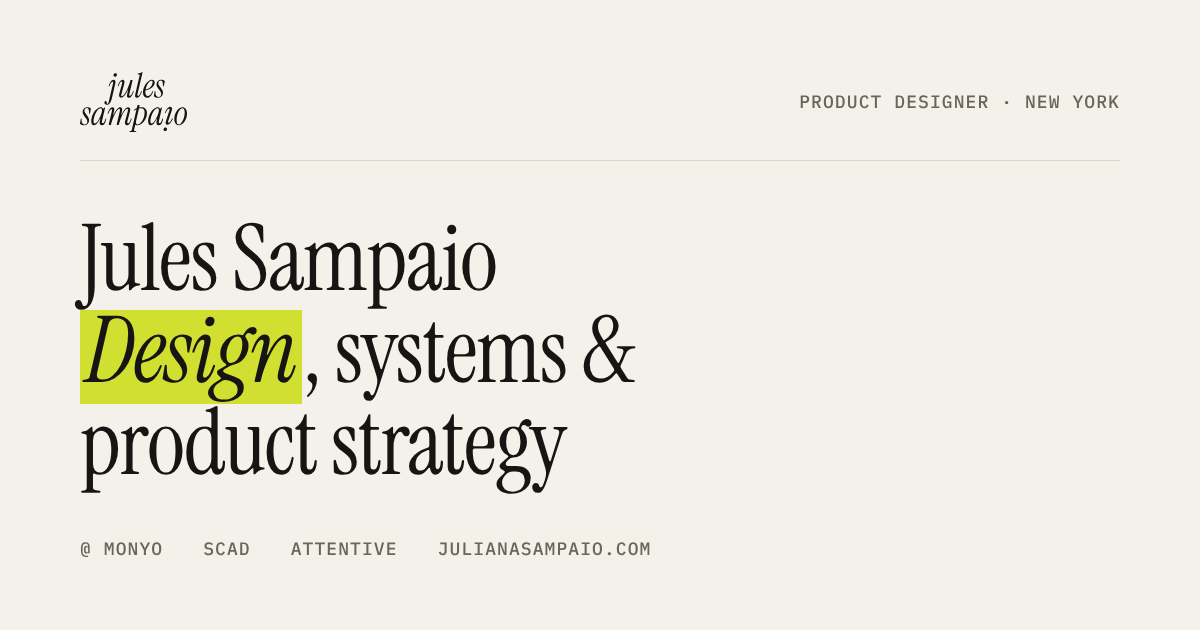
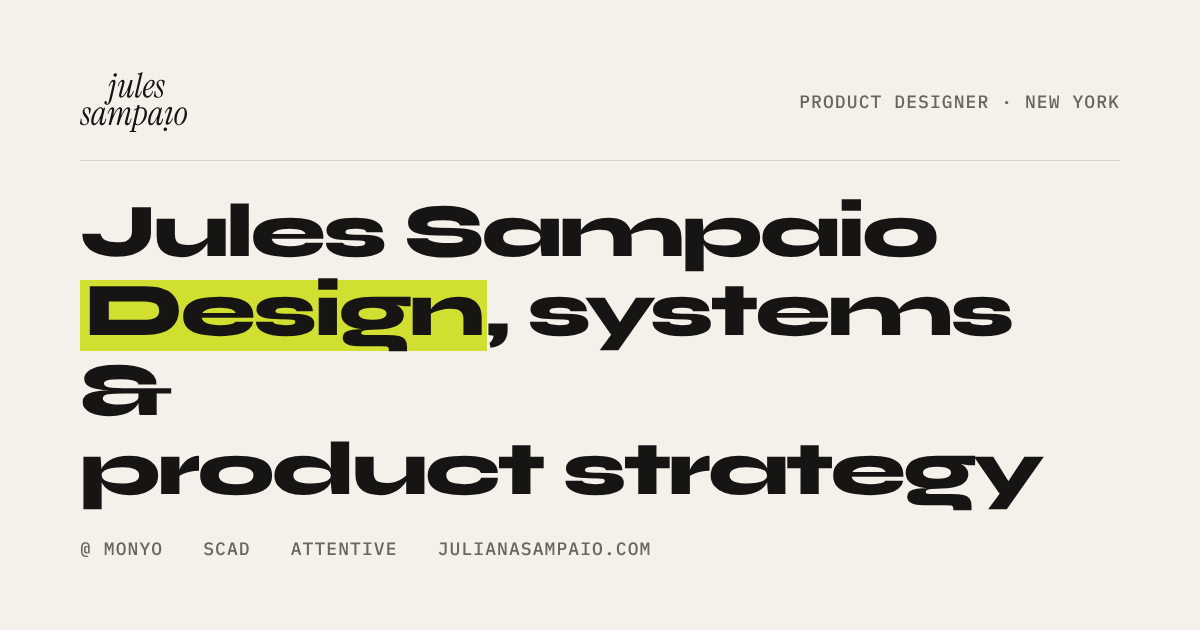
Use Syne ExtraBold for headings, restore Instrument Sans body
Syne replaces Instrument Serif for display type, sized down to suit its
width. Project titles stay on one line in the stacked list, the New badge
sits beside the number, and headings never push the page sideways on
phones. Social preview image updated to match.

Claude-Session: https://claude.ai/code/session_01Fz48ZS3uEjodpQCWoz5G4s

Changed region(s): [[0.0617, 0.3016, 0.8633, 0.8143]]

diff --git a/styles.css b/styles.css
@@ -1,5 +1,5 @@
 /* Jules Sampaio — editorial system.
-   Instrument Serif for display, Syne ExtraBold for reading, IBM Plex Mono for labels.
+   Syne ExtraBold for display, Instrument Sans for reading, IBM Plex Mono for labels.
    Dark is the default theme; the header switch sets data-theme on <html>.
    Warm paper, near-black ink, one lime accent (#d1e030).
    --accent is a fill color; --accent-ink is the readable text version of it. */
@@ -16,8 +16,8 @@
   --card: #ffffff;
   --todo: #fff3c4;
   --todo-line: #d9b528;
-  --display: "Instrument Serif", "Times New Roman", Georgia, serif;
-  --body: "Syne", "Helvetica Neue", Arial, sans-serif;
+  --display: "Syne", "Helvetica Neue", Arial, sans-serif;
+  --body: "Instrument Sans", "Helvetica Neue", Arial, sans-serif;
   --mono: "IBM Plex Mono", ui-monospace, Menlo, monospace;
   --gutter: clamp(16px, 4vw, 48px);
   --max: 1320px;
@@ -50,7 +50,7 @@
 html { -webkit-text-size-adjust: 100%; }
 body {
   margin: 0; background: var(--paper); color: var(--ink);
-  font: 800 16px/1.65 var(--body);
+  font: 400 17px/1.6 var(--body);
   -webkit-font-smoothing: antialiased;
   font-synthesis-weight: none;
 }
@@ -90,7 +90,7 @@ a { color: inherit; }
 
 /* home */
 .intro { padding: clamp(72px, 13vw, 168px) 0 clamp(64px, 11vw, 144px); text-align: center; }
-.intro h1 { font: 400 clamp(42px, 5.6vw, 82px)/.98 var(--display); letter-spacing: -.015em; margin: 0; }
+.intro h1 { font: 800 clamp(25px, 4.4vw, 64px)/1.04 var(--display); letter-spacing: -.035em; margin: 0; }
 .intro h1 span { display: block; }
 .intro h1 em { font-style: italic; }
 .hl { color: var(--hl-ink); background: linear-gradient(transparent 16%, var(--hl-bg) 16% 94%, transparent 94%); padding: 0 .08em; -webkit-box-decoration-break: clone; box-decoration-break: clone; }
@@ -109,11 +109,12 @@ a { color: inherit; }
 .index li:first-child { border-top: 0; }
 .index li[hidden] { display: none; }
 .index li.no-stick { position: relative; top: auto !important; }
-.card { display: grid; grid-template-columns: 72px minmax(0, 1fr) minmax(0, 1.12fr); gap: 0 clamp(20px, 3vw, 48px); padding: 14px 0 clamp(28px, 4vw, 48px); text-decoration: none; }
-.card .num { font: 500 11.5px/1 var(--mono); letter-spacing: .06em; padding-top: 14px; color: var(--muted); }
+.card { display: grid; grid-template-columns: 72px minmax(0, 1fr) minmax(0, 1fr); gap: 0 clamp(20px, 3vw, 48px); padding: 14px 0 clamp(28px, 4vw, 48px); text-decoration: none; }
+.card .num { font: 500 11.5px/1 var(--mono); letter-spacing: .06em; padding-top: 12px; color: var(--muted); display: flex; align-items: center; align-self: start; gap: 8px; }
 .card .num::before { content: counter(work, decimal-leading-zero); }
+.card .num .new { order: 1; }
 .card .text { display: flex; flex-direction: column; min-width: 0; }
-.card .name { font: 400 clamp(32px, 3.3vw, 46px)/1.05 var(--display); letter-spacing: -.01em; margin: 0; }
+.card .name { font: 800 clamp(20px, 1.8vw, 26px)/1.15 var(--display); letter-spacing: -.035em; margin: 0; padding-top: 4px; }
 .card .name span { background-image: linear-gradient(var(--accent-ink), var(--accent-ink)); background-size: 0% 3px; background-position: 0 100%; background-repeat: no-repeat; padding-bottom: 4px; transition: background-size .45s cubic-bezier(.2,.7,.1,1); }
 .card:hover .name span, .card:focus-visible .name span { background-size: 100% 3px; }
 .card .desc { margin: 18px 0 0; font-size: 16.5px; line-height: 1.5; max-width: 44ch; }
@@ -123,7 +124,7 @@ a { color: inherit; }
 .card .thumb > .shot { height: 100%; border-radius: inherit; }
 .card .thumb img { transition: transform .7s cubic-bezier(.2,.7,.1,1); }
 .card:hover .thumb img { transform: scale(1.03); }
-.card .new { font: 500 10px/1 var(--mono); letter-spacing: .06em; text-transform: uppercase; color: #161513; background: var(--accent); border-radius: 999px; padding: 5px 8px; margin-left: 12px; vertical-align: middle; position: relative; top: -6px; }
+.card .new { font: 500 10px/1 var(--mono); letter-spacing: .06em; text-transform: uppercase; color: #161513; background: var(--accent); border-radius: 999px; padding: 5px 8px; }
 
 /* image frames with graceful placeholder */
 .shot { position: relative; background: var(--wash); border-radius: 14px; overflow: hidden; }
@@ -139,7 +140,7 @@ a { color: inherit; }
 .back:hover { color: var(--ink); }
 .back svg { transition: transform .2s; }
 .back:hover svg { transform: translateX(-3px); }
-.cs-top h1 { font: 400 clamp(48px, 7.5vw, 112px)/.98 var(--display); letter-spacing: -.02em; margin: 28px 0 0; text-wrap: balance; width: fit-content; }
+.cs-top h1 { font: 800 clamp(32px, 5.4vw, 80px)/1.02 var(--display); letter-spacing: -.04em; margin: 28px 0 0; text-wrap: balance; width: fit-content; }
 .cs-top .lede { font-size: clamp(19px, 1.8vw, 23px); line-height: 1.45; max-width: 46ch; margin: 24px 0 0; text-wrap: pretty; }
 .meta { display: grid; grid-template-columns: repeat(4, minmax(0, 1fr)); gap: 24px; margin: clamp(32px, 5vw, 56px) 0 0; padding: 20px 0 0; border-top: 1px solid var(--line); }
 .meta div { min-width: 0; }
@@ -156,7 +157,7 @@ a { color: inherit; }
 .prose { max-width: 720px; }
 .prose section { scroll-margin-top: 96px; }
 .prose section + section { margin-top: clamp(56px, 7vw, 88px); }
-.prose h2 { font: 400 clamp(32px, 3.4vw, 44px)/1.05 var(--display); letter-spacing: -.01em; margin: 0 0 18px; text-wrap: balance; }
+.prose h2 { font: 800 clamp(24px, 2.4vw, 32px)/1.12 var(--display); letter-spacing: -.03em; margin: 0 0 18px; text-wrap: balance; }
 .prose h3 { font: 600 18px/1.3 var(--body); margin: 32px 0 6px; }
 .prose p { margin: 0 0 16px; max-width: 65ch; }
 .prose ul { margin: 0 0 16px; padding-left: 20px; max-width: 65ch; }
@@ -177,7 +178,7 @@ a { color: inherit; }
 .values { list-style: none; padding: 0 !important; display: grid; grid-template-columns: repeat(auto-fill, minmax(200px, 1fr)); gap: 16px; }
 .values li { margin: 0; }
 .values .shot { aspect-ratio: 1; margin-bottom: 10px; }
-.values strong { font: 400 24px/1.15 var(--display); }
+.values strong { font: 800 19px/1.2 var(--display); letter-spacing: -.02em; }
 .values span { display: block; color: var(--muted); font-size: 15px; }
 
 .todo { background: var(--todo); border: 1px dashed var(--todo-line); border-radius: 8px; padding: 10px 14px; font-size: 15px; }
@@ -186,12 +187,12 @@ a { color: inherit; }
 
 .next { display: block; text-decoration: none; border-top: 1px solid var(--ink); padding: 28px 0 clamp(56px, 8vw, 96px); }
 .next span { font: 500 11.5px/1.5 var(--mono); letter-spacing: .06em; text-transform: uppercase; color: var(--muted); }
-.next strong { display: flex; align-items: center; gap: 18px; font: 400 clamp(40px, 6.5vw, 88px)/1 var(--display); letter-spacing: -.015em; margin-top: 10px; transition: gap .3s cubic-bezier(.2,.7,.1,1), color .2s; }
+.next strong { display: flex; align-items: center; gap: 18px; font: 800 clamp(30px, 4.6vw, 62px)/1.05 var(--display); letter-spacing: -.04em; margin-top: 10px; transition: gap .3s cubic-bezier(.2,.7,.1,1), color .2s; }
 .next:hover strong { gap: 30px; color: var(--accent-ink); }
 
 /* about */
 .about { display: grid; grid-template-columns: minmax(0, 1.25fr) minmax(0, 1fr); gap: clamp(32px, 6vw, 96px); padding: clamp(48px, 8vw, 104px) 0 clamp(64px, 10vw, 120px); align-items: start; }
-.about h1 { font: 400 clamp(40px, 4.8vw, 66px)/1.02 var(--display); letter-spacing: -.015em; margin: 0 0 28px; text-wrap: balance; }
+.about h1 { font: 800 clamp(30px, 3.4vw, 46px)/1.1 var(--display); letter-spacing: -.035em; margin: 0 0 28px; text-wrap: balance; }
 .about h1 em { color: var(--hl-ink); background: linear-gradient(transparent 16%, var(--hl-bg) 16% 94%, transparent 94%); padding: 0 .08em; }
 .about p { max-width: 58ch; margin: 0 0 16px; font-size: 18px; }
 .about .portrait { aspect-ratio: 4/5; border-radius: 8px; }
@@ -208,7 +209,7 @@ a { color: inherit; }
 
 /* footer */
 .site-foot { border-top: 1px solid var(--line); padding: clamp(48px, 7vw, 88px) 0 40px; }
-.site-foot .say { font: 400 clamp(44px, 6vw, 84px)/1 var(--display); letter-spacing: -.015em; margin: 0 0 clamp(36px, 5vw, 56px); }
+.site-foot .say { font: 800 clamp(32px, 4.4vw, 60px)/1.05 var(--display); letter-spacing: -.04em; margin: 0 0 clamp(36px, 5vw, 56px); }
 .site-foot .say em { color: var(--hl-ink); background: linear-gradient(transparent 16%, var(--hl-bg) 16% 94%, transparent 94%); padding: 0 .08em; }
 .foot-grid { display: grid; grid-template-columns: repeat(3, minmax(0, 1fr)) auto; gap: 24px; padding-top: 20px; border-top: 1px solid var(--line); align-items: start; }
 .foot-grid .label { color: var(--muted); display: block; margin-bottom: 6px; }
@@ -219,7 +220,7 @@ a { color: inherit; }
 
 /* responsive */
 @media (max-width: 960px) {
-  .card { grid-template-columns: 52px minmax(0, 1fr) minmax(0, 1fr); }
+  .card { grid-template-columns: 60px minmax(0, 1fr) minmax(0, 1fr); }
   .foot-grid { grid-template-columns: repeat(3, minmax(0, 1fr)); }
   .foot-grid .copy { grid-column: 1 / -1; }
 }
@@ -232,9 +233,11 @@ a { color: inherit; }
   .about .portrait { max-width: 420px; }
 }
 @media (max-width: 700px) {
-  .card { grid-template-columns: 30px minmax(0, 1fr); padding-top: 12px; }
+  .card { grid-template-columns: 46px minmax(0, 1fr); padding-top: 12px; }
   .card .num { padding-top: 12px; }
-  .card .name { font-size: 30px; }
+  .card .name { font-size: 18px; }
+  .card .new { font-size: 9px; padding: 4px 6px; }
+  .card .num { flex-direction: column; align-items: flex-start; }
   .card .thumb { grid-column: 1 / -1; margin-top: 18px; }
   .card .desc { margin-top: 10px; font-size: 15.5px; }
   .card .who { padding-top: 12px; }
@@ -252,7 +255,7 @@ a { color: inherit; }
 
 .stats { display: grid; grid-template-columns: repeat(auto-fit, minmax(180px, 1fr)); gap: 0; margin: 8px 0 0; border-top: 1px solid var(--ink); }
 .stats div { padding: 20px 20px 4px 0; }
-.stats dt { font: 400 clamp(52px, 5.6vw, 76px)/1 var(--display); letter-spacing: -.01em; color: var(--accent-ink); font-variant-numeric: tabular-nums; }
+.stats dt { font: 800 clamp(30px, 4.2vw, 58px)/1 var(--display); letter-spacing: -.04em; color: var(--accent-ink); font-variant-numeric: tabular-nums; }
 .stats dd { margin: 10px 0 0; font-size: 15px; color: var(--muted); max-width: 26ch; }
 
 .steps { list-style: none; padding: 0 !important; counter-reset: st; display: grid; gap: 0; border-top: 1px solid var(--line); }
@@ -275,7 +278,7 @@ a { color: inherit; }
 .layers div { display: grid; grid-template-columns: 140px 1fr; gap: 16px; padding: 16px 18px; border: 1px solid var(--line); border-radius: 12px; background: var(--paper); }
 .layers div:nth-child(2) { margin-left: 24px; border-color: var(--accent); }
 .layers div:nth-child(3) { margin-left: 48px; }
-.layers b { font: 400 22px/1.2 var(--display); }
+.layers b { font: 800 18px/1.25 var(--display); letter-spacing: -.02em; }
 .layers span { color: var(--muted); font-size: 15px; }
 .swatches { list-style: none; padding: 0 !important; display: grid; grid-template-columns: repeat(auto-fill, minmax(150px, 1fr)); gap: 14px; margin: 24px 0; }
 .swatches li { margin: 0; font-size: 13px; }
@@ -327,3 +330,6 @@ html.star-cursor, html.star-cursor * { cursor: none !important; }
 .star.hot svg path { stroke: #161513; }
 .star.down svg { transform: rotate(90deg) scale(1.15); }
 @media (prefers-reduced-motion: reduce) { .star.hot svg { transform: scale(1.4); } .star.down svg { transform: scale(1.15); } }
+
+/* Syne is wide: let a heading break an overlong word rather than push the page sideways */
+.intro h1, .cs-top h1, .prose h2, .about h1, .site-foot .say, .next strong, .stats dt, .card .name { overflow-wrap: break-word; }

diff --git a/index.html b/index.html
@@ -14,7 +14,7 @@
 <link rel="icon" href="images/favicon-dark.png" type="image/png" media="(prefers-color-scheme: dark)">
 <link rel="apple-touch-icon" href="images/apple-touch-icon.png">
 <meta name="theme-color" content="#141311">
-<link rel="preconnect" href="https://fonts.googleapis.com"><link rel="preconnect" href="https://fonts.gstatic.com" crossorigin><link href="https://fonts.googleapis.com/css2?family=Instrument+Serif:ital@0;1&family=Syne:wght@800&family=IBM+Plex+Mono:wght@500&display=swap" rel="stylesheet">
+<link rel="preconnect" href="https://fonts.googleapis.com"><link rel="preconnect" href="https://fonts.gstatic.com" crossorigin><link href="https://fonts.googleapis.com/css2?family=Syne:wght@800&family=Instrument+Sans:ital,wght@0,400..700;1,400&family=IBM+Plex+Mono:wght@500&display=swap" rel="stylesheet">
 <script>(function(){var t;try{t=localStorage.getItem("theme")}catch(e){}document.documentElement.dataset.theme=(t==="light"||t==="dark")?t:"dark"})()</script>
 <link rel="stylesheet" href="styles.css">
 </head>
@@ -32,36 +32,36 @@
 <div class="work-head"><div class="filters" role="group" aria-label="Filter by company"><button type="button" data-filter="all" aria-pressed="true">All</button><button type="button" data-filter="monyo" aria-pressed="false">Monyo</button><button type="button" data-filter="credit genie" aria-pressed="false">Credit Genie</button><button type="button" data-filter="attentive" aria-pressed="false">Attentive</button></div><h2>Selected work<span data-count>8</span></h2></div>
 <ul class="index">
 <li data-company="monyo"><a class="card" href="monyo-design-system.html">
-  <span class="num label" aria-hidden="true"></span>
+  <span class="num label"><span class="new">New</span></span>
   <div class="text">
-    <h3 class="name"><span style="view-transition-name:t-monyo-design-system">Monyo design system</span><span class="new">New</span></h3>
+    <h3 class="name"><span style="view-transition-name:t-monyo-design-system">Monyo design system</span></h3>
     <p class="desc">The design system the whole Monyo app runs on, designed and shipped solo in 12 weeks.</p>
     <p class="who label"><b>Monyo</b>design system lead, sole designer<br>12 weeks, 2026</p>
   </div>
   <div class="thumb"><div class="shot " style="view-transition-name:img-monyo-design-system"><div class="ph" aria-hidden="true"><div><b>Monyo brand and design system</b><span>images/monyo-design-system/cover.jpg</span></div></div><img src="images/monyo-design-system/cover.jpg" alt="Monyo brand and design system" loading="eager" decoding="async"></div></div>
 </a></li>
 <li data-company="credit genie"><a class="card" href="credit-genie-debit-cards.html">
-  <span class="num label" aria-hidden="true"></span>
+  <span class="num label"><span class="new">New</span></span>
   <div class="text">
-    <h3 class="name"><span style="view-transition-name:t-credit-genie-debit-cards">Multiple debit cards</span><span class="new">New</span></h3>
+    <h3 class="name"><span style="view-transition-name:t-credit-genie-debit-cards">Multiple debit cards</span></h3>
     <p class="desc">Up to six debit cards on file, with a status system that decides what each card can do.</p>
     <p class="who label"><b>Credit Genie</b>lead product designer<br>2026</p>
   </div>
   <div class="thumb"><div class="shot " style="view-transition-name:img-credit-genie-debit-cards"><div class="ph" aria-hidden="true"><div><b>debit card screens</b><span>images/credit-genie-debit-cards/cover.jpg</span></div></div><img src="images/credit-genie-debit-cards/cover.jpg" alt="debit card screens" loading="eager" decoding="async"></div></div>
 </a></li>
 <li data-company="monyo"><a class="card" href="monyo-onboarding.html">
-  <span class="num label" aria-hidden="true"></span>
+  <span class="num label"><span class="new">New</span></span>
   <div class="text">
-    <h3 class="name"><span style="view-transition-name:t-monyo-onboarding">Monyo onboarding</span><span class="new">New</span></h3>
+    <h3 class="name"><span style="view-transition-name:t-monyo-onboarding">Monyo onboarding</span></h3>
     <p class="desc">From download to an active card in a few required steps, with no passwords.</p>
     <p class="who label"><b>Monyo</b>lead product designer<br>2026</p>
   </div>
   <div class="thumb"><div class="shot " style="view-transition-name:img-monyo-onboarding"><div class="ph" aria-hidden="true"><div><b>Monyo onboarding screens</b><span>images/monyo-onboarding/cover-screens.jpg</span></div></div><img src="images/monyo-onboarding/cover-screens.jpg" alt="Monyo onboarding screens" loading="eager" decoding="async"></div></div>
 </a></li>
 <li data-company="credit genie"><a class="card" href="credit-genie-membership.html">
-  <span class="num label" aria-hidden="true"></span>
+  <span class="num label"><span class="new">New</span></span>
   <div class="text">
-    <h3 class="name"><span style="view-transition-name:t-credit-genie-membership">Credit genie membership</span><span class="new">New</span></h3>
+    <h3 class="name"><span style="view-transition-name:t-credit-genie-membership">Credit genie membership</span></h3>
     <p class="desc">A $9.99 membership that replaced a biweekly fee, so app access no longer depends on a live bank connection.</p>
     <p class="who label"><b>Credit Genie</b>lead product designer<br>2026</p>
   </div>

diff --git a/404.html b/404.html
@@ -14,7 +14,7 @@
 <link rel="icon" href="images/favicon-dark.png" type="image/png" media="(prefers-color-scheme: dark)">
 <link rel="apple-touch-icon" href="images/apple-touch-icon.png">
 <meta name="theme-color" content="#141311">
-<link rel="preconnect" href="https://fonts.googleapis.com"><link rel="preconnect" href="https://fonts.gstatic.com" crossorigin><link href="https://fonts.googleapis.com/css2?family=Instrument+Serif:ital@0;1&family=Syne:wght@800&family=IBM+Plex+Mono:wght@500&display=swap" rel="stylesheet">
+<link rel="preconnect" href="https://fonts.googleapis.com"><link rel="preconnect" href="https://fonts.gstatic.com" crossorigin><link href="https://fonts.googleapis.com/css2?family=Syne:wght@800&family=Instrument+Sans:ital,wght@0,400..700;1,400&family=IBM+Plex+Mono:wght@500&display=swap" rel="stylesheet">
 <script>(function(){var t;try{t=localStorage.getItem("theme")}catch(e){}document.documentElement.dataset.theme=(t==="light"||t==="dark")?t:"dark"})()</script>
 <link rel="stylesheet" href="styles.css">
 </head>

diff --git a/about.html b/about.html
@@ -14,7 +14,7 @@
 <link rel="icon" href="images/favicon-dark.png" type="image/png" media="(prefers-color-scheme: dark)">
 <link rel="apple-touch-icon" href="images/apple-touch-icon.png">
 <meta name="theme-color" content="#141311">
-<link rel="preconnect" href="https://fonts.googleapis.com"><link rel="preconnect" href="https://fonts.gstatic.com" crossorigin><link href="https://fonts.googleapis.com/css2?family=Instrument+Serif:ital@0;1&family=Syne:wght@800&family=IBM+Plex+Mono:wght@500&display=swap" rel="stylesheet">
+<link rel="preconnect" href="https://fonts.googleapis.com"><link rel="preconnect" href="https://fonts.gstatic.com" crossorigin><link href="https://fonts.googleapis.com/css2?family=Syne:wght@800&family=Instrument+Sans:ital,wght@0,400..700;1,400&family=IBM+Plex+Mono:wght@500&display=swap" rel="stylesheet">
 <script>(function(){var t;try{t=localStorage.getItem("theme")}catch(e){}document.documentElement.dataset.theme=(t==="light"||t==="dark")?t:"dark"})()</script>
 <link rel="stylesheet" href="styles.css">
 </head>

diff --git a/ai-creatives.html b/ai-creatives.html
@@ -14,7 +14,7 @@
 <link rel="icon" href="images/favicon-dark.png" type="image/png" media="(prefers-color-scheme: dark)">
 <link rel="apple-touch-icon" href="images/apple-touch-icon.png">
 <meta name="theme-color" content="#141311">
-<link rel="preconnect" href="https://fonts.googleapis.com"><link rel="preconnect" href="https://fonts.gstatic.com" crossorigin><link href="https://fonts.googleapis.com/css2?family=Instrument+Serif:ital@0;1&family=Syne:wght@800&family=IBM+Plex+Mono:wght@500&display=swap" rel="stylesheet">
+<link rel="preconnect" href="https://fonts.googleapis.com"><link rel="preconnect" href="https://fonts.gstatic.com" crossorigin><link href="https://fonts.googleapis.com/css2?family=Syne:wght@800&family=Instrument+Sans:ital,wght@0,400..700;1,400&family=IBM+Plex+Mono:wght@500&display=swap" rel="stylesheet">
 <script>(function(){var t;try{t=localStorage.getItem("theme")}catch(e){}document.documentElement.dataset.theme=(t==="light"||t==="dark")?t:"dark"})()</script>
 <link rel="stylesheet" href="styles.css">
 </head>

diff --git a/cb3.html b/cb3.html
@@ -14,7 +14,7 @@
 <link rel="icon" href="images/favicon-dark.png" type="image/png" media="(prefers-color-scheme: dark)">
 <link rel="apple-touch-icon" href="images/apple-touch-icon.png">
 <meta name="theme-color" content="#141311">
-<link rel="preconnect" href="https://fonts.googleapis.com"><link rel="preconnect" href="https://fonts.gstatic.com" crossorigin><link href="https://fonts.googleapis.com/css2?family=Instrument+Serif:ital@0;1&family=Syne:wght@800&family=IBM+Plex+Mono:wght@500&display=swap" rel="stylesheet">
+<link rel="preconnect" href="https://fonts.googleapis.com"><link rel="preconnect" href="https://fonts.gstatic.com" crossorigin><link href="https://fonts.googleapis.com/css2?family=Syne:wght@800&family=Instrument+Sans:ital,wght@0,400..700;1,400&family=IBM+Plex+Mono:wght@500&display=swap" rel="stylesheet">
 <script>(function(){var t;try{t=localStorage.getItem("theme")}catch(e){}document.documentElement.dataset.theme=(t==="light"||t==="dark")?t:"dark"})()</script>
 <link rel="stylesheet" href="styles.css">
 </head>

diff --git a/credit-genie-debit-cards.html b/credit-genie-debit-cards.html
@@ -14,7 +14,7 @@
 <link rel="icon" href="images/favicon-dark.png" type="image/png" media="(prefers-color-scheme: dark)">
 <link rel="apple-touch-icon" href="images/apple-touch-icon.png">
 <meta name="theme-color" content="#141311">
-<link rel="preconnect" href="https://fonts.googleapis.com"><link rel="preconnect" href="https://fonts.gstatic.com" crossorigin><link href="https://fonts.googleapis.com/css2?family=Instrument+Serif:ital@0;1&family=Syne:wght@800&family=IBM+Plex+Mono:wght@500&display=swap" rel="stylesheet">
+<link rel="preconnect" href="https://fonts.googleapis.com"><link rel="preconnect" href="https://fonts.gstatic.com" crossorigin><link href="https://fonts.googleapis.com/css2?family=Syne:wght@800&family=Instrument+Sans:ital,wght@0,400..700;1,400&family=IBM+Plex+Mono:wght@500&display=swap" rel="stylesheet">
 <script>(function(){var t;try{t=localStorage.getItem("theme")}catch(e){}document.documentElement.dataset.theme=(t==="light"||t==="dark")?t:"dark"})()</script>
 <link rel="stylesheet" href="styles.css">
 </head>

diff --git a/credit-genie-membership.html b/credit-genie-membership.html
@@ -14,7 +14,7 @@
 <link rel="icon" href="images/favicon-dark.png" type="image/png" media="(prefers-color-scheme: dark)">
 <link rel="apple-touch-icon" href="images/apple-touch-icon.png">
 <meta name="theme-color" content="#141311">
-<link rel="preconnect" href="https://fonts.googleapis.com"><link rel="preconnect" href="https://fonts.gstatic.com" crossorigin><link href="https://fonts.googleapis.com/css2?family=Instrument+Serif:ital@0;1&family=Syne:wght@800&family=IBM+Plex+Mono:wght@500&display=swap" rel="stylesheet">
+<link rel="preconnect" href="https://fonts.googleapis.com"><link rel="preconnect" href="https://fonts.gstatic.com" crossorigin><link href="https://fonts.googleapis.com/css2?family=Syne:wght@800&family=Instrument+Sans:ital,wght@0,400..700;1,400&family=IBM+Plex+Mono:wght@500&display=swap" rel="stylesheet">
 <script>(function(){var t;try{t=localStorage.getItem("theme")}catch(e){}document.documentElement.dataset.theme=(t==="light"||t==="dark")?t:"dark"})()</script>
 <link rel="stylesheet" href="styles.css">
 </head>

diff --git a/gamified-creatives.html b/gamified-creatives.html
@@ -14,7 +14,7 @@
 <link rel="icon" href="images/favicon-dark.png" type="image/png" media="(prefers-color-scheme: dark)">
 <link rel="apple-touch-icon" href="images/apple-touch-icon.png">
 <meta name="theme-color" content="#141311">
-<link rel="preconnect" href="https://fonts.googleapis.com"><link rel="preconnect" href="https://fonts.gstatic.com" crossorigin><link href="https://fonts.googleapis.com/css2?family=Instrument+Serif:ital@0;1&family=Syne:wght@800&family=IBM+Plex+Mono:wght@500&display=swap" rel="stylesheet">
+<link rel="preconnect" href="https://fonts.googleapis.com"><link rel="preconnect" href="https://fonts.gstatic.com" crossorigin><link href="https://fonts.googleapis.com/css2?family=Syne:wght@800&family=Instrument+Sans:ital,wght@0,400..700;1,400&family=IBM+Plex+Mono:wght@500&display=swap" rel="stylesheet">
 <script>(function(){var t;try{t=localStorage.getItem("theme")}catch(e){}document.documentElement.dataset.theme=(t==="light"||t==="dark")?t:"dark"})()</script>
 <link rel="stylesheet" href="styles.css">
 </head>

diff --git a/gif-maker.html b/gif-maker.html
@@ -14,7 +14,7 @@
 <link rel="icon" href="images/favicon-dark.png" type="image/png" media="(prefers-color-scheme: dark)">
 <link rel="apple-touch-icon" href="images/apple-touch-icon.png">
 <meta name="theme-color" content="#141311">
-<link rel="preconnect" href="https://fonts.googleapis.com"><link rel="preconnect" href="https://fonts.gstatic.com" crossorigin><link href="https://fonts.googleapis.com/css2?family=Instrument+Serif:ital@0;1&family=Syne:wght@800&family=IBM+Plex+Mono:wght@500&display=swap" rel="stylesheet">
+<link rel="preconnect" href="https://fonts.googleapis.com"><link rel="preconnect" href="https://fonts.gstatic.com" crossorigin><link href="https://fonts.googleapis.com/css2?family=Syne:wght@800&family=Instrument+Sans:ital,wght@0,400..700;1,400&family=IBM+Plex+Mono:wght@500&display=swap" rel="stylesheet">
 <script>(function(){var t;try{t=localStorage.getItem("theme")}catch(e){}document.documentElement.dataset.theme=(t==="light"||t==="dark")?t:"dark"})()</script>
 <link rel="stylesheet" href="styles.css">
 </head>

diff --git a/monyo-design-system.html b/monyo-design-system.html
@@ -14,7 +14,7 @@
 <link rel="icon" href="images/favicon-dark.png" type="image/png" media="(prefers-color-scheme: dark)">
 <link rel="apple-touch-icon" href="images/apple-touch-icon.png">
 <meta name="theme-color" content="#141311">
-<link rel="preconnect" href="https://fonts.googleapis.com"><link rel="preconnect" href="https://fonts.gstatic.com" crossorigin><link href="https://fonts.googleapis.com/css2?family=Instrument+Serif:ital@0;1&family=Syne:wght@800&family=IBM+Plex+Mono:wght@500&display=swap" rel="stylesheet">
+<link rel="preconnect" href="https://fonts.googleapis.com"><link rel="preconnect" href="https://fonts.gstatic.com" crossorigin><link href="https://fonts.googleapis.com/css2?family=Syne:wght@800&family=Instrument+Sans:ital,wght@0,400..700;1,400&family=IBM+Plex+Mono:wght@500&display=swap" rel="stylesheet">
 <script>(function(){var t;try{t=localStorage.getItem("theme")}catch(e){}document.documentElement.dataset.theme=(t==="light"||t==="dark")?t:"dark"})()</script>
 <link rel="stylesheet" href="styles.css">
 </head>

diff --git a/monyo-onboarding.html b/monyo-onboarding.html
@@ -14,7 +14,7 @@
 <link rel="icon" href="images/favicon-dark.png" type="image/png" media="(prefers-color-scheme: dark)">
 <link rel="apple-touch-icon" href="images/apple-touch-icon.png">
 <meta name="theme-color" content="#141311">
-<link rel="preconnect" href="https://fonts.googleapis.com"><link rel="preconnect" href="https://fonts.gstatic.com" crossorigin><link href="https://fonts.googleapis.com/css2?family=Instrument+Serif:ital@0;1&family=Syne:wght@800&family=IBM+Plex+Mono:wght@500&display=swap" rel="stylesheet">
+<link rel="preconnect" href="https://fonts.googleapis.com"><link rel="preconnect" href="https://fonts.gstatic.com" crossorigin><link href="https://fonts.googleapis.com/css2?family=Syne:wght@800&family=Instrument+Sans:ital,wght@0,400..700;1,400&family=IBM+Plex+Mono:wght@500&display=swap" rel="stylesheet">
 <script>(function(){var t;try{t=localStorage.getItem("theme")}catch(e){}document.documentElement.dataset.theme=(t==="light"||t==="dark")?t:"dark"})()</script>
 <link rel="stylesheet" href="styles.css">
 </head>
